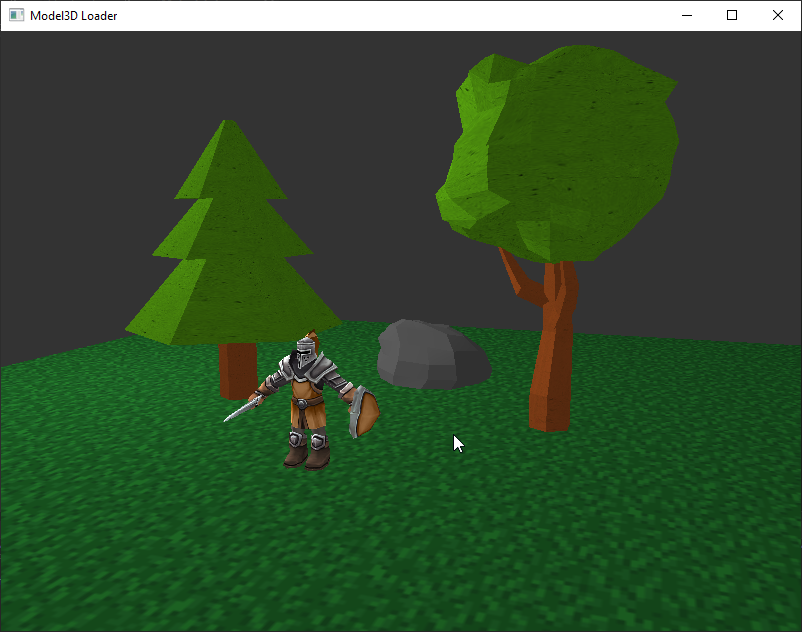
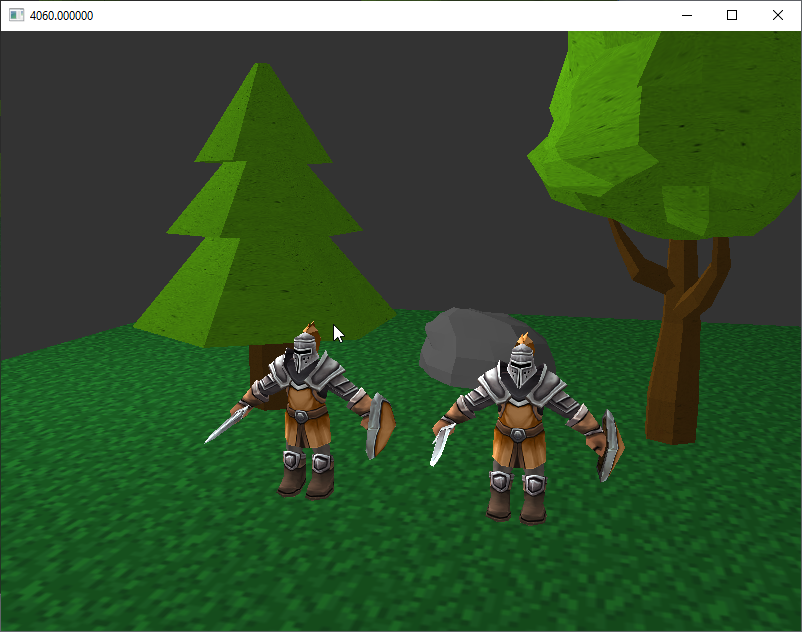
added loading nodes of model *.fbx

diff --git a/Model3DLoader/AnimatedModel3D.hpp b/Model3DLoader/AnimatedModel3D.hpp
@@ -25,12 +25,18 @@ public:
     std::vector<Mesh> animated_meshes;
     unsigned int current_frame;
 
-    //AnimationClip animation;
-    //double animationTime = 0.0;
+    FbxManager* manager = nullptr;
+    FbxIOSettings* ios = nullptr;
+    FbxScene* modelScene = nullptr;
 
     AnimatedModel3D() {
         meshes.clear();
         current_frame = 0;
+
+        manager = FbxManager::Create();
+
+        ios = FbxIOSettings::Create(manager, IOSROOT);
+        manager->SetIOSettings(ios);
     }
     ~AnimatedModel3D() {}
 
@@ -72,21 +78,18 @@ public:
 
         meshes.clear();
 
-        FbxManager* manager = FbxManager::Create();
-        FbxIOSettings* ios = FbxIOSettings::Create(manager, IOSROOT);
-        manager->SetIOSettings(ios);
-
         FbxImporter* importer = FbxImporter::Create(manager, "");
         if (!importer->Initialize(ConvertWideToUtf8(pathfile).c_str(), -1, manager->GetIOSettings())) {
-            std::cerr << "Błąd: nie udało się wczytać modelu." << std::endl;
+            std::wcout << L"Błąd: nie udało się wczytać animacji: " << pathfile << L"\n";
             return;
         }
 
-        FbxScene* scene = FbxScene::Create(manager, "myScene");
-        importer->Import(scene);
+        modelScene = FbxScene::Create(manager, "myScene");
+
+        importer->Import(modelScene);
         importer->Destroy();
 
-        FbxNode* root = scene->GetRootNode();
+        FbxNode* root = modelScene->GetRootNode();
         if (!root) return;
 
         // load the Meshes
@@ -126,7 +129,7 @@ public:
                         }
 
                         FbxDouble3 localScale = node->LclScaling.Get();
-                        double toMeters = FbxSystemUnit::m.GetConversionFactorFrom(scene->GetGlobalSettings().GetSystemUnit());
+                        double toMeters = FbxSystemUnit::m.GetConversionFactorFrom(modelScene->GetGlobalSettings().GetSystemUnit());
 
                         vertice vv;
                         vv.x = float(v[0] * localScale[0] * toMeters);
@@ -154,63 +157,75 @@ public:
 
         traverse(root);
 
-        animated_meshes = meshes;
-
         updateVerticesBuffer();
     }
 
     void ProcessNode(FbxNode* pNode, FbxAnimLayer* pAnimLayer, FbxTime time) {
-        if (!pNode) return;
-
-        FbxAMatrix globalTransform = pNode->EvaluateGlobalTransform(time);
-
-        FbxMesh* mesh = pNode->GetMesh();
-        if (mesh) {
-            int vertexCount = mesh->GetControlPointsCount();
-            FbxVector4* controlPoints = mesh->GetControlPoints();
-
-            for (int i = 0; i < vertexCount; i++) {
-                FbxVector4 localPos = controlPoints[i];
-                FbxVector4 worldPos = globalTransform.MultT(localPos);
-
-                std::cout << "vertex[" << i << "] = "
-                    << worldPos[0] << ", "
-                    << worldPos[1] << ", "
-                    << worldPos[2] << "\n";
-            }
+        if (!pNode) {
+            return;
         }
-        else
-            std::wcout << L"mesh is empty\n";
+        
+        // mesh is nullptr so make a metrices
+        FbxAnimEvaluator* anim_eval = pNode->GetAnimationEvaluator();
+
+        FbxAMatrix localTransform = anim_eval->GetNodeLocalTransform(pNode, time);
+        
+        FbxVector4 t = localTransform.GetT(); // translacja
+        FbxVector4 r = localTransform.GetR(); // rotacja
+        FbxVector4 s = localTransform.GetS(); // skala
+
+        std::cout << "Node: " << pNode->GetName() << "\n";
+        std::cout << "  Local T: " << t[0] << ", " << t[1] << ", " << t[2] << "\n";
+        std::cout << "  Local R: " << r[0] << ", " << r[1] << ", " << r[2] << "\n";
+        std::cout << "  Local S: " << s[0] << ", " << s[1] << ", " << s[2] << "\n";
+
+        //
+        // teraz przypisac wierzcholki do modelScene
+        // modelScene
+        //
+
+        /*
+        glm::mat4 view = cam->GetViewMatrix();
+        glm::mat4 projection = glm::perspective(glm::radians(45.0f), 800.0f / 600.0f, 0.1f, 400.0f);
+        glm::mat4 model = glm::mat4(1.0f);
+
+        model = glm::translate(model, transform.position);
+        model = glm::rotate(model, glm::radians(transform.rotation.x), glm::vec3(1.0f, 0.0f, 0.0f));
+        model = glm::rotate(model, glm::radians(transform.rotation.y), glm::vec3(0.0f, 1.0f, 0.0f));
+        model = glm::rotate(model, glm::radians(transform.rotation.z), glm::vec3(0.0f, 0.0f, 1.0f));
+        model = glm::scale(model, transform.scale);
+        */
+
+        /////////////
+
+        ////////////
 
         int childCount = pNode->GetChildCount();
         for (int i = 0; i < childCount; i++) {
             ProcessNode(pNode->GetChild(i), pAnimLayer, time);
         }
     }
-
-    void loadFBXAnimation(std::wstring path) {
-        FbxManager* manager = FbxManager::Create();
-        FbxIOSettings* ios = FbxIOSettings::Create(manager, IOSROOT);
-        manager->SetIOSettings(ios);
+    
+    void loadFBXAnimation(std::wstring pathfile) {
 
         FbxImporter* importer = FbxImporter::Create(manager, "");
-        if (!importer->Initialize(ConvertWideToUtf8(path).c_str(), -1, manager->GetIOSettings())) {
-            std::wcout << L"Błąd: nie udało się wczytać animacji: " << path << L"\n";
+        if (!importer->Initialize(ConvertWideToUtf8(pathfile).c_str(), -1, manager->GetIOSettings())) {
+            std::wcout << L"Błąd: nie udało się wczytać animacji: " << pathfile << L"\n";
             return;
         }
-
-        FbxScene* scene = FbxScene::Create(manager, "");
         
-        importer->Import(scene);
+        FbxScene* animScene = FbxScene::Create(manager, "animation");
+
+        importer->Import(animScene);
         importer->Destroy();
 
-        FbxAnimStack* animStack = scene->GetSrcObject<FbxAnimStack>(0);
+        FbxAnimStack* animStack = animScene->GetSrcObject<FbxAnimStack>(0);
         if (!animStack) {
             std::cout << "Brak animacji\n";
             return;
         }
 
-        int animCount = scene->GetSrcObjectCount<FbxAnimStack>();
+        int animCount = animScene->GetSrcObjectCount<FbxAnimStack>();
         if (animCount == 0) {
             std::cout << "Brak animacji\n";
             return;
@@ -218,17 +233,17 @@ public:
 
 
         for (int i = 0; i < animCount; i++) {
-            FbxAnimStack* animStack = scene->GetSrcObject<FbxAnimStack>(i);
+            FbxAnimStack* animStack = animScene->GetSrcObject<FbxAnimStack>(i);
             FbxAnimLayer* animLayer = animStack->GetMember<FbxAnimLayer>(0);
 
             // ...
 
-            std::cout << "wczytuje animacje nr " << i << " - " << animStack->GetName() << "\n";
+            std::cout << "load animation no " << i << " : \"" << animStack->GetName() << "\"\n";
 
-            scene->SetCurrentAnimationStack(animStack);
+            animScene->SetCurrentAnimationStack(animStack);
 
             // show time of animation
-            FbxTakeInfo* takeInfo = scene->GetTakeInfo(animStack->GetName());
+            FbxTakeInfo* takeInfo = animScene->GetTakeInfo(animStack->GetName());
             std::cout << "anim start: " << takeInfo->mLocalTimeSpan.GetStart().GetSecondDouble() << "s \n";
             std::cout << "anim stop: " << takeInfo->mLocalTimeSpan.GetStop().GetSecondDouble() << "s \n";
             
@@ -236,29 +251,53 @@ public:
 
             FbxTime currentTime = takeInfo->mLocalTimeSpan.GetStart();
             FbxTime frameTime;
-            frameTime.SetTime(0, 0, 0, 1, 0, scene->GetGlobalSettings().GetTimeMode()); // klatka co 1 frame
+            frameTime.SetTime(0, 0, 0, 1, 0, animScene->GetGlobalSettings().GetTimeMode()); // klatka co 1 frame
+
+            FbxNode* root = animScene->GetRootNode();
+            if (!root) {
+                std::cout << "rootNode is nullptr\n";
+                return;
+            }
+                
 
             while (currentTime <= takeInfo->mLocalTimeSpan.GetStop()) {
+                static int i = 0;
+                std::cout << "frame: " << i++ << "\ttime: " << currentTime.GetSecondDouble() << "s\n";
                 
-                std::cout << "time: " << currentTime.GetSecondDouble() << "s\n";
-                
-                ProcessNode(scene->GetRootNode(), animLayer, currentTime);
+                ProcessNode(root, animLayer, currentTime);
                 currentTime += frameTime;
             }
 
         }
     }
-
+    
     void animate() {
 
         //std::cout << "frame: " << current_frame << "\n";
+        /*
+        if (frames.size() < 3000) {
+            Frame f;
+            f.time = current_time;
+            for (auto& m : meshes) {
+                for (int i = 0; i < m.vertices.size(); i++) {
+                    AnimationVertice av;
+                    av.mesh = &m;
+                    av.vertice_index = i;
+                    av.x = m.vertices[i].x;
+                    av.y = m.vertices[i].y;
+                    av.z = m.vertices[i].z + 0.001f;
+                    f.move_vertices.push_back(av);
+                }
+            }
+            frames.push_back(f);
+        }
+
+        */
 
         if (frames.empty() || meshes.empty())
             return;
 
         const Frame& frame = frames[current_frame];
-
-        if (current_time - frame.time > 1.0f) {
 
             for (auto& mv : frame.move_vertices) {
                 mv.mesh->vertices[mv.vertice_index].x = mv.x;
@@ -272,12 +311,11 @@ public:
             if (current_frame >= frames.size()) {
                 current_frame = 0;
             }
-        }
     }
-
+    
 
     void update() {
-        //animate();
+        animate();
     }
 
     void draw() {

diff --git a/Model3DLoader/main.cpp b/Model3DLoader/main.cpp
@@ -190,14 +190,15 @@ int main() {
 
 	Model3D knightOBJ;
 	knightOBJ.loadObj(L"mdl\\Knight.obj");
-	//knightOBJ.setScale(2, 2, 2);
+	knightOBJ.setScale(2, 2, 2);
 	knightOBJ.setPosition(-2, 0, 5);
 
 	AnimatedModel3D knightFBX;
 	knightFBX.loadFBX(L"mdl\\knight.FBX");
 	knightFBX.loadFBXAnimation(L"anm\\WK_heavy_infantry_06_combat_walk.FBX");
-	knightFBX.setPosition(0, 0, 5);
-	
+	knightFBX.setScale(2, 2, 2);
+	knightFBX.setPosition(2, 0, 5);
+
 	// cursor position
 	cur_press = false;
 	glfwGetCursorPos(window, &cur_pos_x, &cur_pos_y);

diff --git a/Model3DLoader/Model3D.hpp b/Model3DLoader/Model3D.hpp
@@ -11,6 +11,7 @@ struct vertice {
 struct Mesh {
     std::vector<vertice> vertices;
     Material* material = nullptr;
+    FbxMesh* fbx_mesh = nullptr;
 };
 
 
